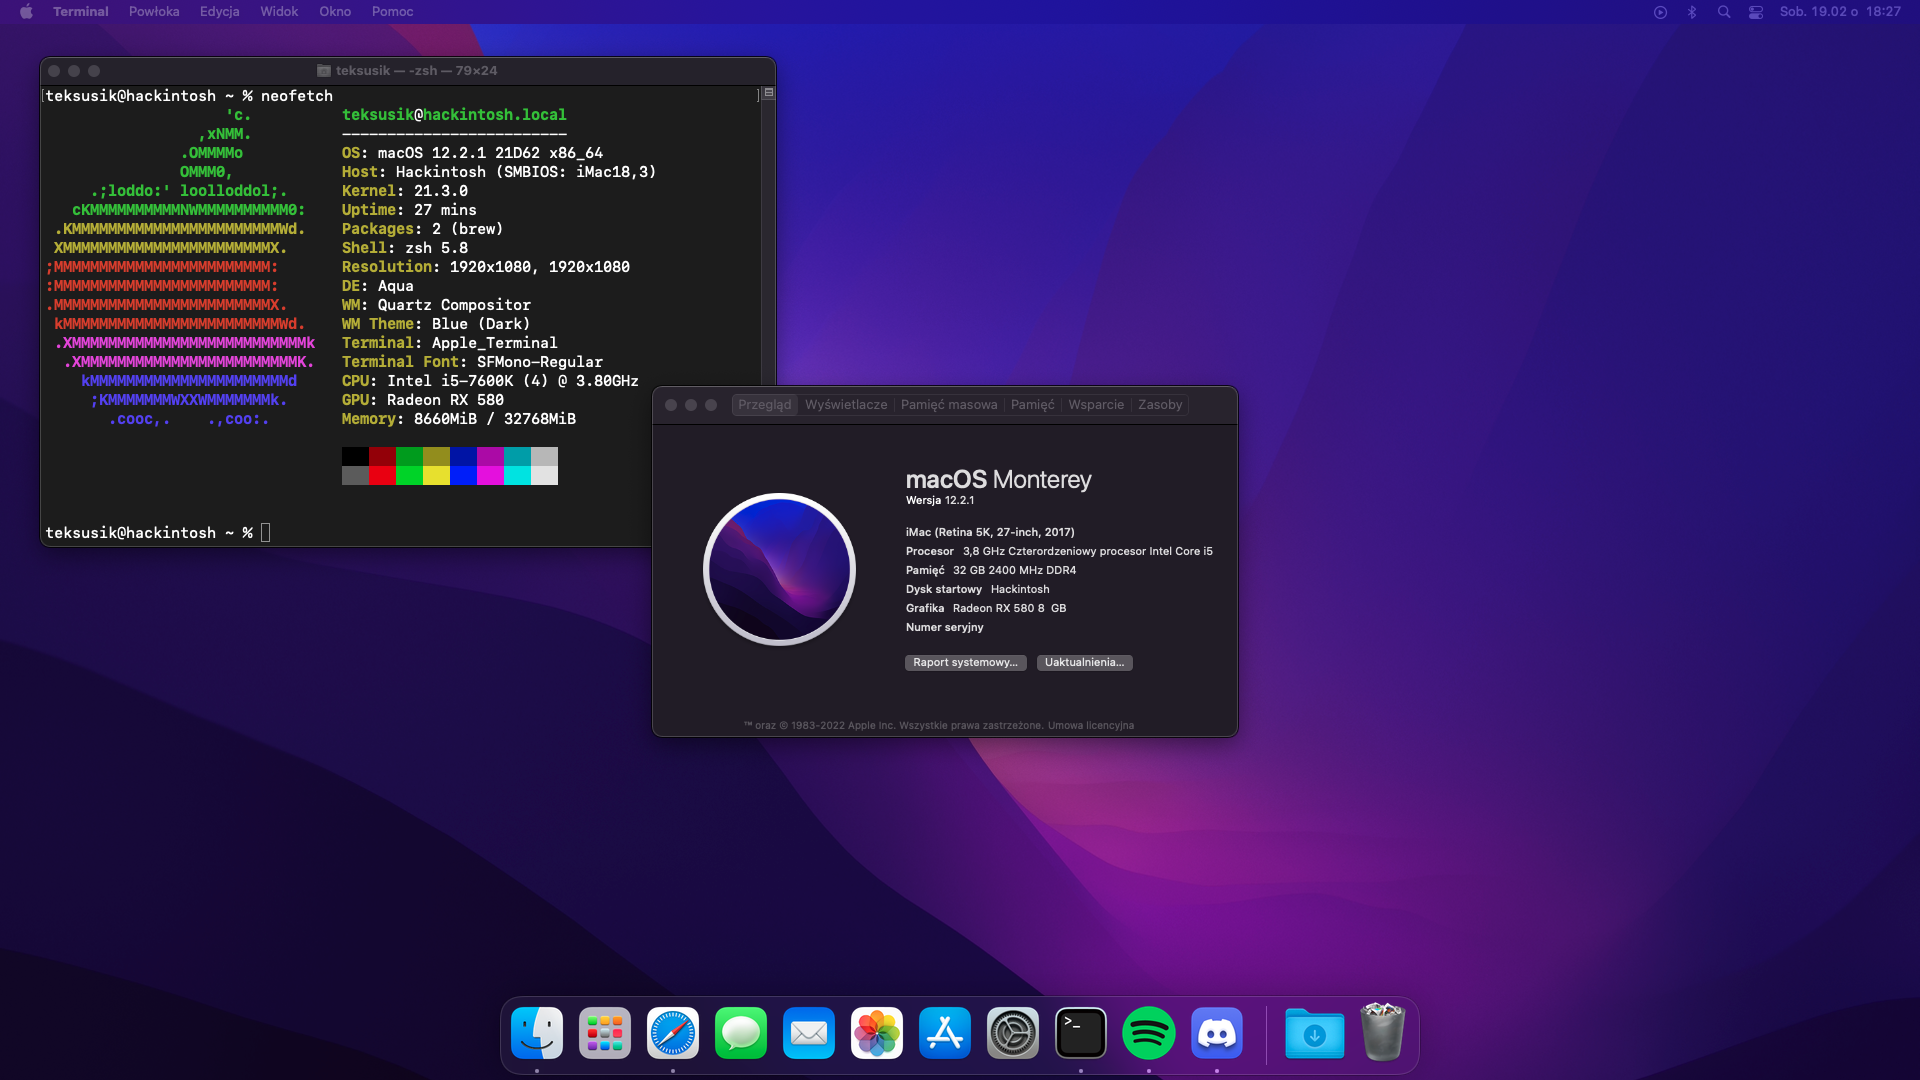
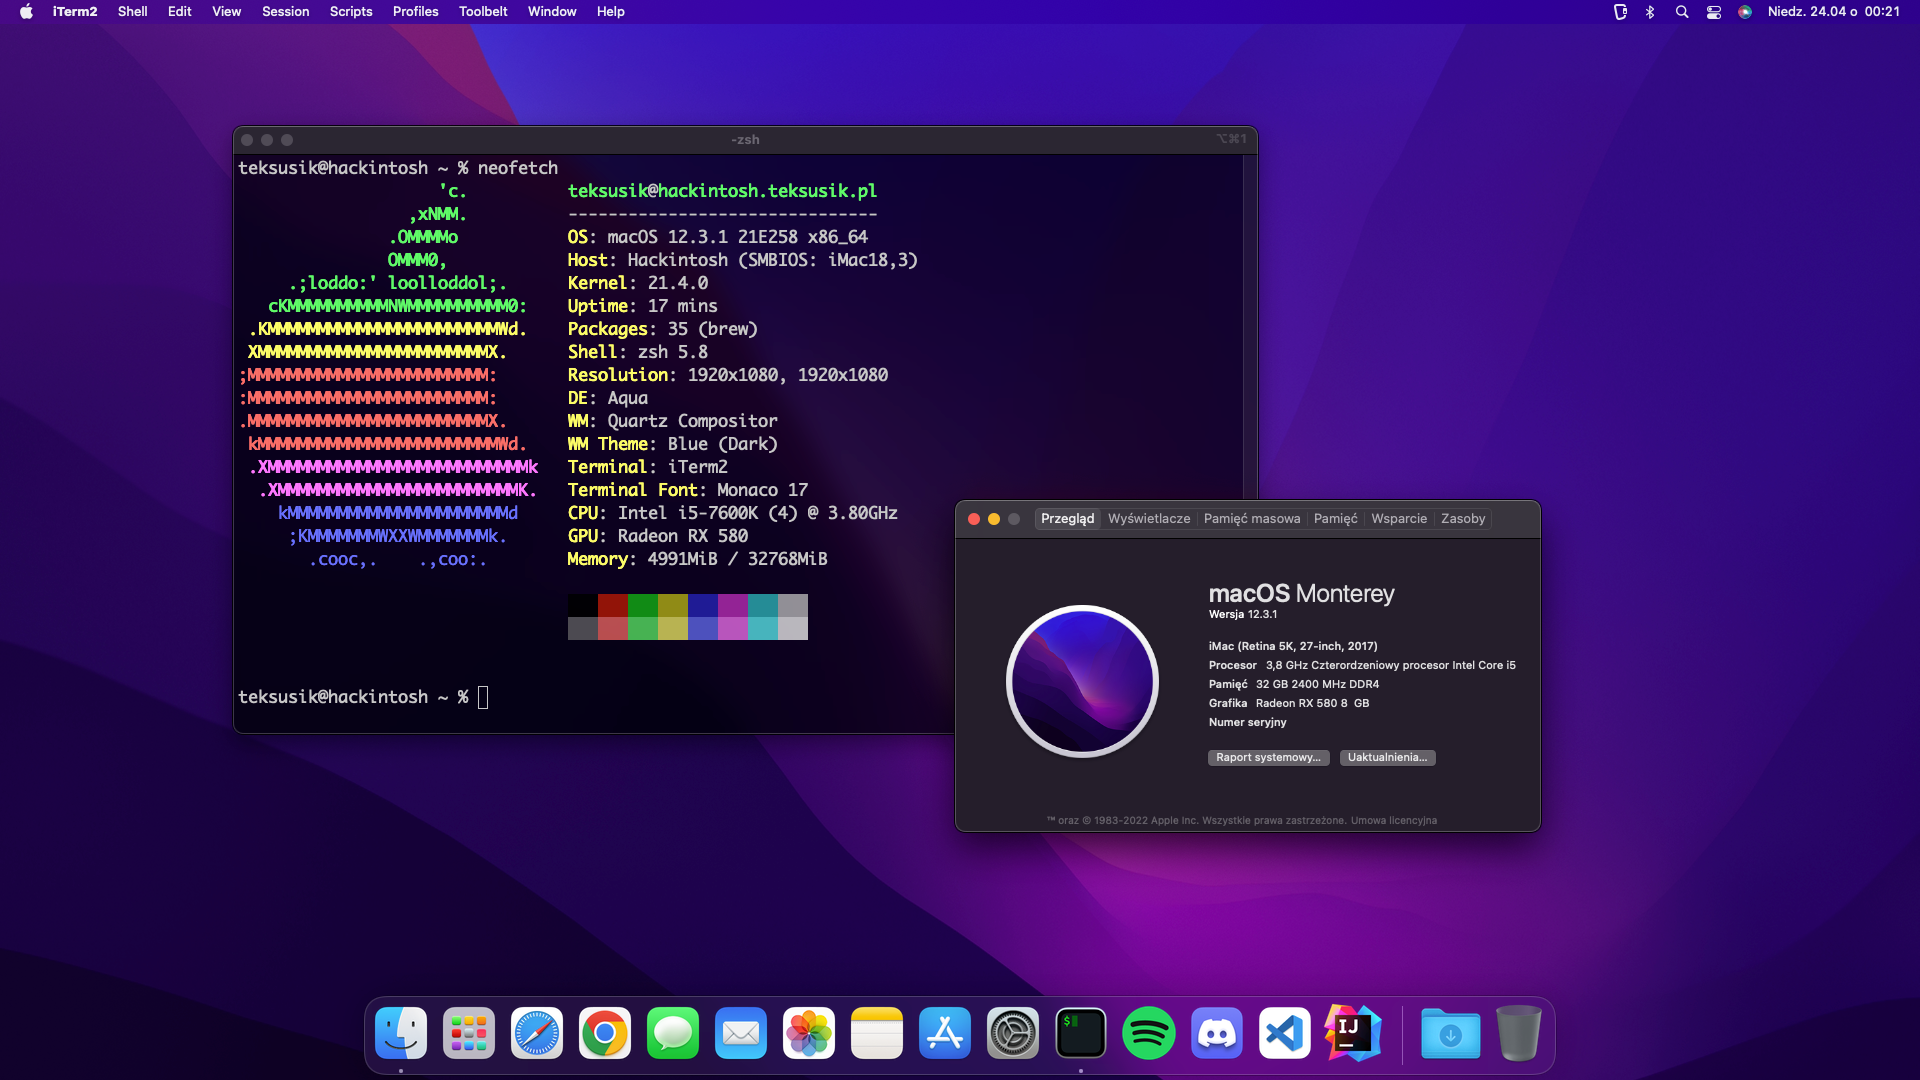
Update README.md and screenshot.png

diff --git a/README.md b/README.md
@@ -5,12 +5,12 @@
 | Motherboard | Gigabyte Z270-HD3P |
 | RAM | 32GB (4 x 8GB) Patriot Signature  @ 2400MHz |
 | GPU | Gigabyte Aourus RX580 8GB |
-| OS Disk | Gigabyte 120GB SSD |
+| OS Disk | Samsung 970 EVO 250GB |
 | Ethernet | Intel I219-V |
 | Bluetooth | Asus BT-400 (Broadcom BCM20702) |
 
-**macOS version:** macOS Monterey 12.3.1  
-**OpenCore version:** 0.7.9  
+**macOS version:** macOS Monterey 12.3.1 (21E258)
+**OpenCore version:** 0.8.0  
 **SMBIOS**: iMac 18,3
 
 ## Credits
